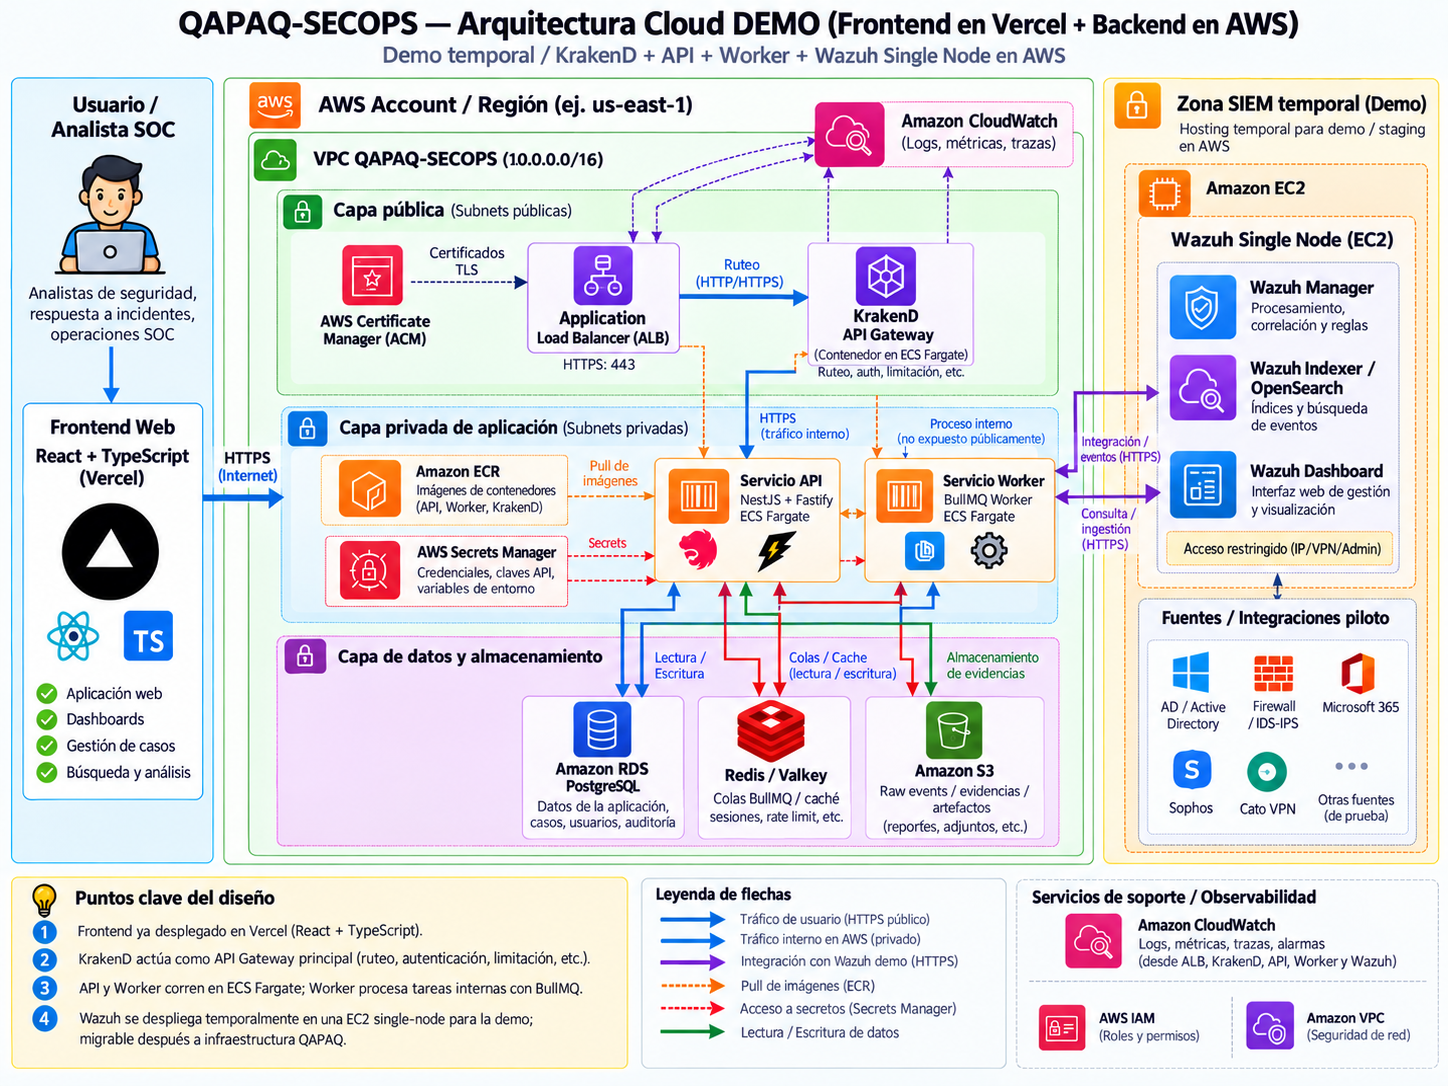
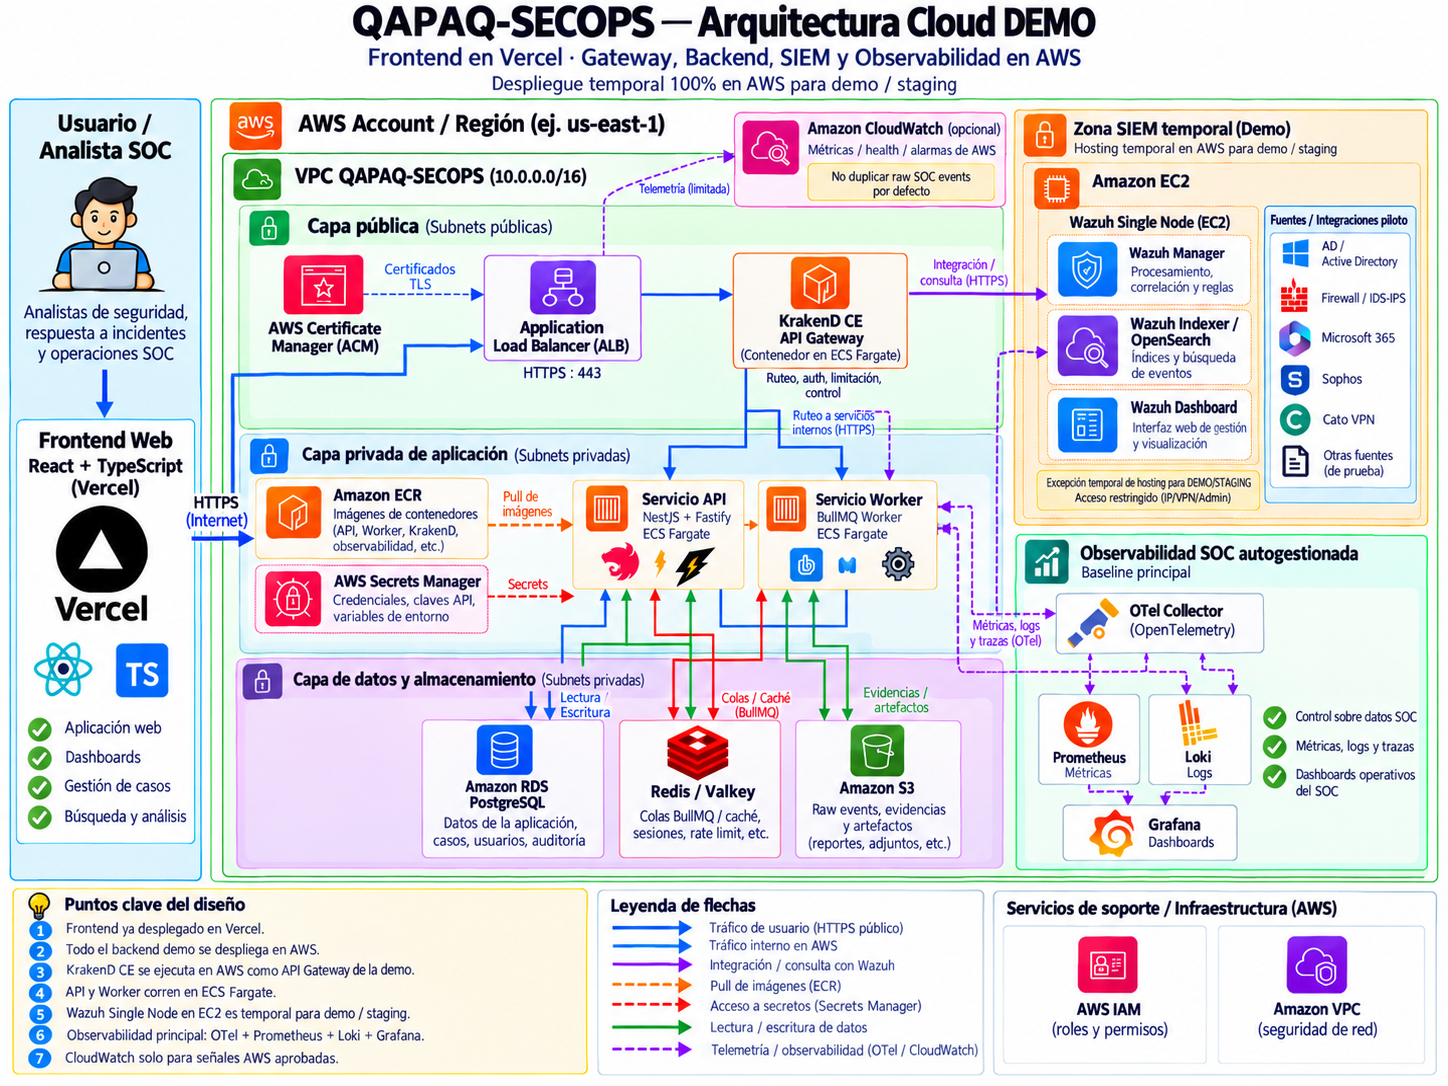
docs: replace AWS demo diagram with original

diff --git a/docs/architecture/aws-demo.md b/docs/architecture/aws-demo.md
@@ -1,17 +1,22 @@
 # Arquitectura cloud demo de QAPAQ-SECOPS
 
-**Estado:** arquitectura de referencia para demo/staging; la mayoría de los
-recursos AWS del dibujo aún no está provisionada.  
-**Actualizado:** 2026-10-05.  
-**Fuente visual:** diagrama compartido por el equipo, incorporado sin alterar.
+**Estado:** arquitectura original de referencia para demo/staging; la mayoría de
+los recursos AWS del dibujo aún no está provisionada.
+
+**Actualizado:** 2026-10-05.
+
+**Fuente visual:** diagrama original compartido por el equipo el 2026-10-05,
+incorporado sin alterar y en reemplazo de la versión anterior.
 
 ## Resumen ejecutivo
 
-La propuesta mantiene la interfaz React/TypeScript en Vercel y coloca el backend
-de la demo en AWS. Un Application Load Balancer sería la única entrada pública a
-la capa de aplicación; API y worker correrían separados en ECS Fargate dentro de
-subredes privadas. PostgreSQL, Redis/Valkey y S3 cubrirían persistencia, colas/cache
-y objetos/evidencias. Wazuh se representa temporalmente en una EC2 single-node.
+La propuesta mantiene la interfaz React/TypeScript en Vercel y despliega en AWS
+todo el backend, gateway, SIEM temporal y observabilidad SOC. Un Application Load
+Balancer sería la única entrada pública a la aplicación; KrakenD CE, API y worker
+correrían en ECS Fargate. PostgreSQL, Redis/Valkey y S3 cubrirían persistencia,
+colas/cache y objetos/evidencias. Wazuh se representa temporalmente en una EC2
+single-node. La observabilidad SOC principal sería autogestionada con OpenTelemetry,
+Prometheus, Loki y Grafana; CloudWatch queda opcional para señales AWS aprobadas.
 
 El alcance actual de fuentes es menor que el del dibujo: **QAPAQ-SECOPS solo
 consume Microsoft 365 mediante Wazuh**. Wazuh recolecta y analiza los eventos de
@@ -40,10 +45,11 @@ integraciones activas. Este recorrido sigue
 
 ## Diagrama de referencia
 
-![Arquitectura cloud demo de QAPAQ-SECOPS: frontend Vercel, backend de aplicación y zona SIEM temporal en AWS. Microsoft 365 es la única fuente consumida actualmente; las demás fuentes son opciones piloto.](assets/aws-demo-cloud-architecture.png)
+![Diagrama original de arquitectura cloud demo de QAPAQ-SECOPS: frontend en Vercel; gateway, API, worker, datos, Wazuh y observabilidad SOC en AWS. Microsoft 365 es la única fuente consumida actualmente; las demás fuentes son opciones piloto.](assets/aws-demo-cloud-architecture.png)
 
-*La imagen describe una topología objetivo de demo. Sus componentes y flujos deben
-leerse junto con los estados y salvedades de esta página.*
+*Esta es la imagen original de referencia vigente, reemplaza el diagrama anterior y
+describe una topología objetivo. Sus componentes y flujos deben leerse junto con
+los estados y salvedades de esta página.*
 
 ## Recorrido de datos previsto
 
@@ -63,25 +69,26 @@ leerse junto con los estados y salvedades de esta página.*
 6. Wazuh Dashboard se mantiene restringido a administración por VPN/IP allowlist;
    no se expone como otra interfaz pública de la demo.
 
-### Alineación pendiente sobre KrakenD y observabilidad
+### Alineación con las decisiones de arquitectura
 
-El dibujo sitúa KrakenD junto a la aplicación en AWS. **ADR-026 selecciona
-KrakenD CE on-premises como gateway para APIs consumidas directamente** y
-especifica que la consulta QAPAQ → Wazuh Indexer atraviesa ese gateway. La imagen
-y ADR-026 no coinciden sobre su ubicación. Se conserva la topología aprobada por
-ADR-026 hasta que una decisión actualice expresamente esa ubicación; no desplegar
-ambas rutas por accidente.
+El diagrama original fija la intención de la demo: **KrakenD CE como API Gateway
+en ECS Fargate dentro de AWS**. ADR-026 todavía registra KrakenD CE on-premises
+como gateway para APIs consumidas directamente y especifica que la consulta QAPAQ
+→ Wazuh Indexer atraviesa ese gateway. Por tanto, la ubicación del gateway en
+esta arquitectura demo difiere de la decisión vigente de ADR-026; antes de
+provisionar KrakenD debe actualizarse el ADR o documentarse una excepción de demo.
+No desplegar ambas rutas por accidente.
 
-El dibujo también propone CloudWatch para logs, métricas y trazas. La baseline de
-[ADR-025](../adr/025-security-access-observability-hardening.md) selecciona
-Prometheus, Loki y Grafana autogestionados para conservar control sobre
-información SOC. CloudWatch puede evaluarse para métricas operacionales de AWS,
-pero clasificar y aprobar campos, región y retención antes de enviar datos; no
-duplicar raw SOC events por defecto.
+El diagrama original coincide con la baseline de
+[ADR-025](../adr/025-security-access-observability-hardening.md): OpenTelemetry,
+Prometheus, Loki y Grafana autogestionados forman la observabilidad SOC principal.
+CloudWatch es opcional para métricas, health y alarmas de AWS. Clasificar y aprobar
+campos, región y retención antes de enviar datos; no duplicar eventos SOC crudos
+por defecto.
 
 ## Motivos de diseño y tradeoffs
 
-### Vercel para la web, AWS para servicios de aplicación
+### Vercel para la web, AWS para backend, SIEM y observabilidad
 
 Separar frontend y plano de datos permite entregar cambios de interfaz con
 rapidez y mantener base de datos, colas y servicios de integración en una red
@@ -150,10 +157,10 @@ privilege en las políticas del role.
 
 ## Límites y decisiones antes de desplegar la pila
 
-1. **Resolver KrakenD:** reconciliar la ubicación de la imagen con ADR-026 y
-   actualizar un ADR antes de provisionar ese servicio.
-2. **Fijar observabilidad:** clasificar métricas/logs AWS y decidir qué señales
-   pueden ir a CloudWatch, manteniendo la política SOC de ADR-025.
+1. **Resolver KrakenD:** actualizar ADR-026 o registrar una excepción de demo para
+   reconciliar la ubicación en ECS con el gateway on-premises aprobado.
+2. **Configurar observabilidad:** desplegar la baseline SOC autogestionada y
+   clasificar qué señales operacionales de AWS pueden ir a CloudWatch.
 3. **Acotar permisos:** revisar permisos efectivos del role GitHub OIDC; reemplazar
    permisos amplios por permisos mínimos antes de cualquier `apply`.
 4. **Cerrar seguridad de red:** confirmar CIDR, subredes, egress, endpoints,
